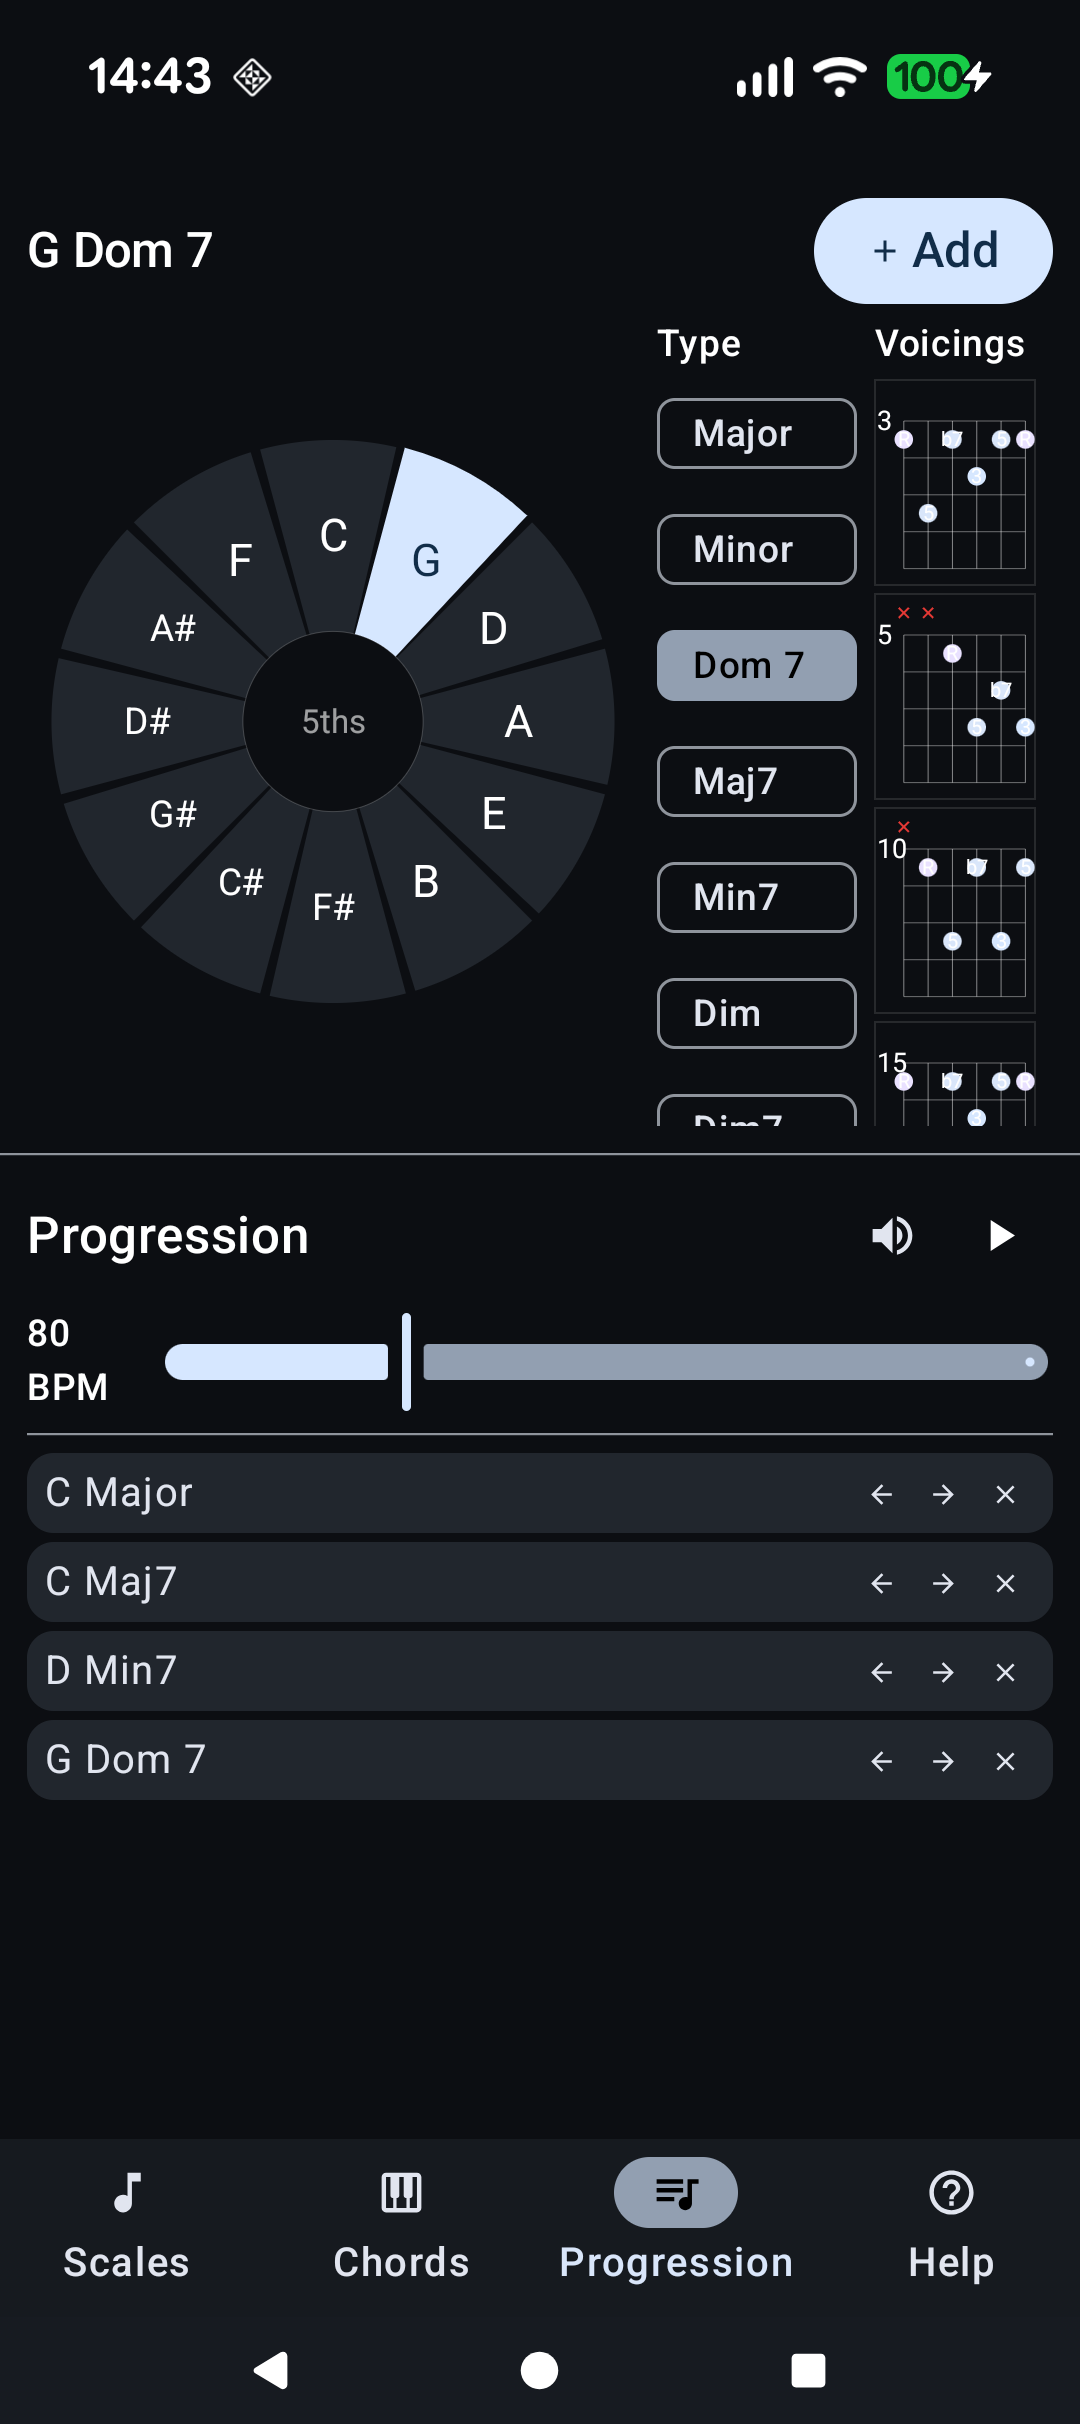
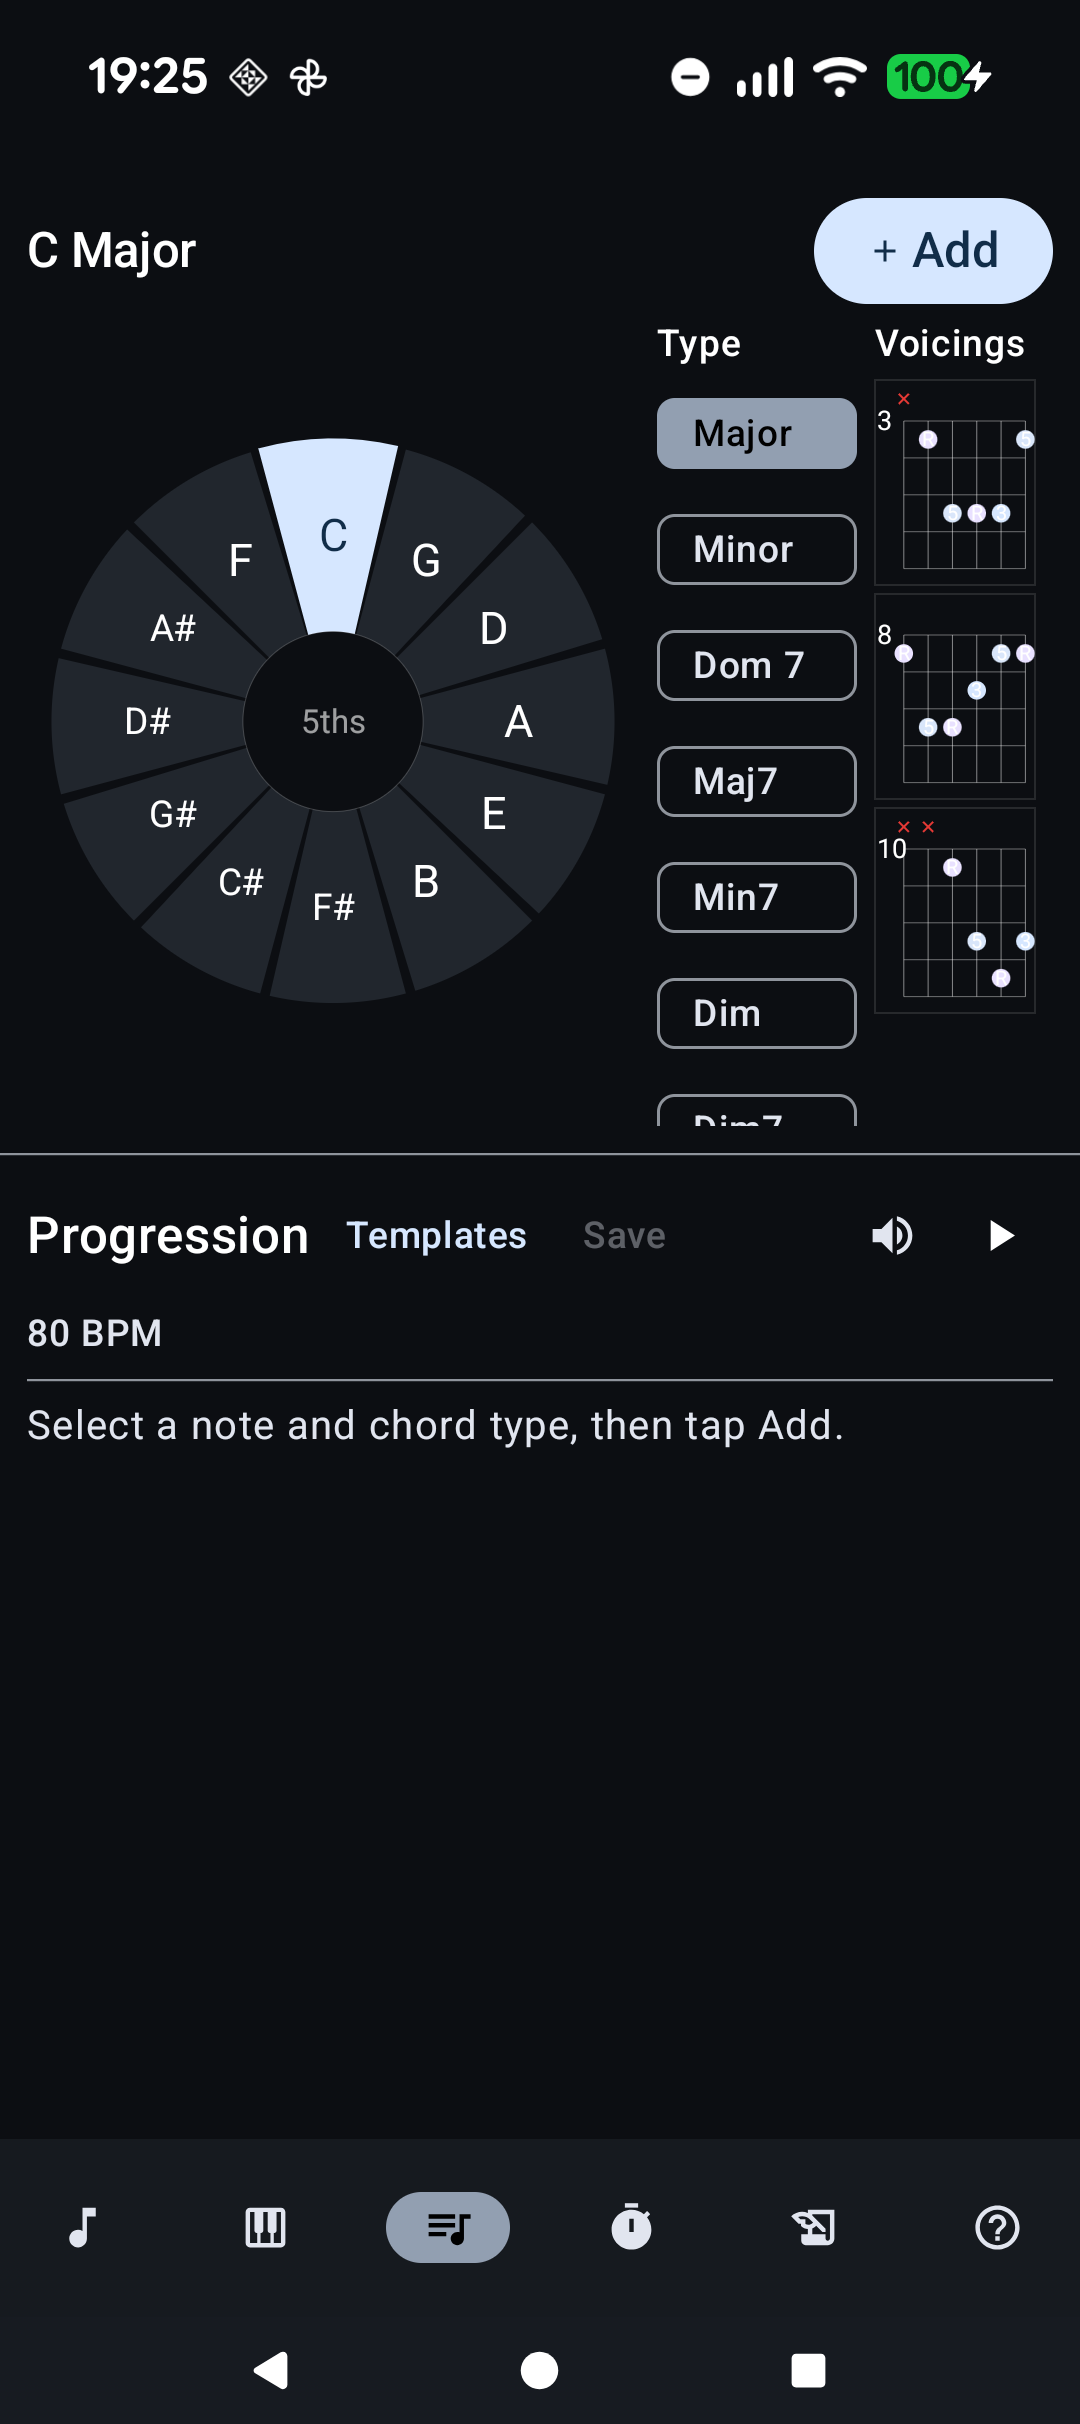
update readme

diff --git a/README.md b/README.md
@@ -1,6 +1,6 @@
 # Braindelay Guitar Tools
 
-A tool to help guitarists to learn scales, chord voicings, and progressions. You can use it to visualise any scale on a 19-fret fretboard, explore diatonic chord shapes, and build chord progressions with audio playback.
+A tool to help guitarists learn scales, chord voicings, and progressions. Visualise any scale on a 19-fret fretboard, explore diatonic chord shapes, build chord progressions with audio playback, keep time with the built-in metronome, and work through structured soloing exercises.
 
 ## Usage Guide
 
@@ -16,8 +16,8 @@ A tool to help guitarists to learn scales, chord voicings, and progressions. You
 #### Fretboard options (top bar icons)
 | Icon | Action |
 |------|--------|
-| ⇄ (SwapHoriz) | Toggle **left-handed mode** — mirrors the fretboard so the nut is on the right |
-| T (TextFields) | Toggle **label mode** — switches note labels between Roman numerals (I, b3…) and note names (C, C#…) |
+| ⇄ | Toggle **left-handed mode** — mirrors the fretboard so the nut is on the right |
+| T | Toggle **label mode** — switches note labels between Roman numerals (I, b3…) and note names (C, C#…) |
 
 #### Chord voicings
 
@@ -61,17 +61,66 @@ In portrait, the circle of fifths sits at the top and the chord list fills the l
 
 <img src="./screenshots/06_progression.png" width="480"/>
 
-The chord selector always shows the circle of fifths on the left, chord type chips in the middle, and example voicings on the right. In portrait the selector and progression list are stacked; in landscape they sit side by side.
+The chord selector shows the circle of fifths on the left, chord type chips in the middle, and example voicings on the right. In portrait the selector and progression list are stacked; in landscape they sit side by side.
 
 #### Building a progression
 1. **Tap a note** on the circle of fifths to set the root.
 2. **Select a chord type** from the chip list.
 3. Press **Add** to append the chord to the progression list.
-4. Repeat to build up a sequence. Use the **← →** arrows to reorder chords and **✕** to delete one.
+4. Use **− / +** to adjust how many beats each chord lasts (1–8).
+5. Use the **← →** arrows to reorder chords and **✕** to delete one.
+
+#### Templates
+- Tap **Templates** to open a sheet of preset progressions. Templates resolve against the key currently set in the Scales screen.
+- Select a template to preview the chord sequence, then press **Load** (replaces current) or **Append** (adds to the end).
+- Templates named after exercises — e.g. "Approach Notes (I–IV–V)" — are designed to be used alongside those exercises.
+
+#### Saved progressions
+- Tap **Save** to name and save the current progression.
+- Tap **Saved** to expand the saved list. Tap an entry to load it; long-press to rename; tap **✕** to delete.
 
 #### Playback
-1. Set the **BPM** with the slider (20–240). Each chord plays for 4 beats at the chosen tempo.
-2. Press **▶** to start looping through the progression. The active chord is highlighted.
-3. Adjust the BPM slider at any time — the new speed takes effect on the next chord.
-4. Press **⏸** to stop.
-5. While playing, switch to the Scales tab to see the chord arpeggios highlighted on the fretboard in real time.
+1. The current BPM is set on the **Metronome** screen and shown above the progression list.
+2. Press **▶** to start looping. The metronome starts automatically at the same tempo. The active chord is highlighted.
+3. Press **⏸** to stop — the metronome stops at the same time.
+4. While playing, switch to the **Scales** tab to see the chord arpeggios highlighted on the fretboard in real time.
+5. The fretboard also previews the **next** chord one beat early so you can see what is coming.
+
+---
+
+### Metronome
+
+<img src="./screenshots/07_metronome.png" width="480"/>
+
+A standalone click track that also drives Progression playback tempo. Any BPM change here is immediately reflected when the Progression loops.
+
+#### Setting the tempo
+- **Drag the slider** to set BPM (20–300). The Italian tempo name (Largo, Andante, Allegro…) updates automatically.
+- Use **−5 / −1 / +1 / +5** for precise nudges.
+- Tap **Tap Tempo** in rhythm to derive the BPM from your playing. Three or more taps average out to a stable tempo.
+
+#### Beat display
+- Animated dots show each beat. The **downbeat (beat 1)** pulses in a distinct colour.
+- Choose 2–8 **beats per bar** with the filter chips below the dots.
+- Toggle **Muted** to keep the visual pulse without audible clicks — useful when playing quietly.
+
+---
+
+### Exercises
+
+<img src="./screenshots/08_exercises.png" width="480"/>
+
+Seven structured exercises for developing chord-tone soloing and improvisation. Each card shows a difficulty badge and a one-line summary. Tap any card to expand the step-by-step instructions and a tip.
+
+#### Difficulty levels
+| Level | Exercises |
+|-------|-----------|
+| Beginner | Triad Arpeggios Across the Neck; Three-String Triad Shapes |
+| Intermediate | Approach Notes to Chord Tones; Scale Runs Landing on Chord Tones; Triad Pairs |
+| Advanced | Voice Leading Through Chord Changes; CAGED Position Soloing |
+
+#### Using the app alongside exercises
+- Several exercises ask you to build a progression — use the matching **Template** (e.g. "Approach Notes (I–IV–V)") to load it instantly.
+- Use the **Scales** screen to see the active chord highlighted on the fretboard while the progression loops.
+- Set a comfortable practice tempo on the **Metronome** screen before starting an exercise.
+- Filter exercises by difficulty using the chips at the top of the screen.
